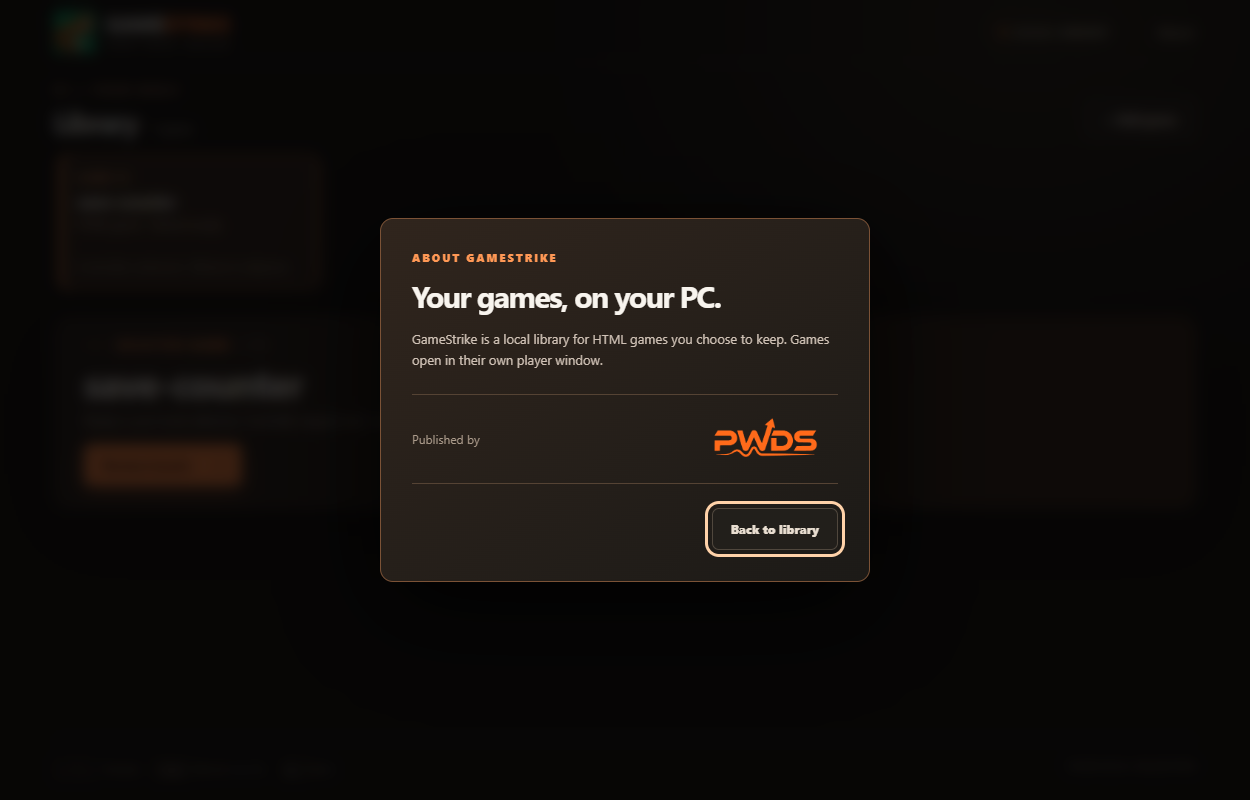
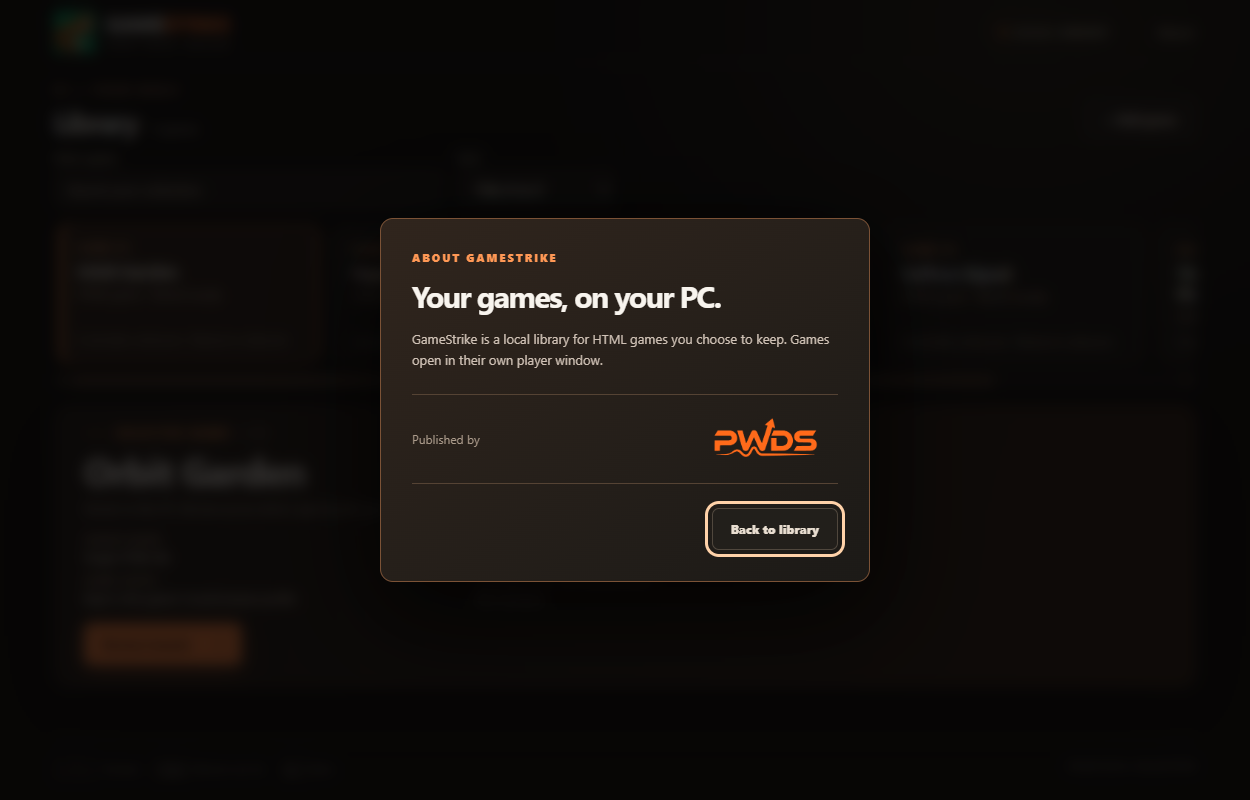
Publish inspected current launcher captures and runtime evidence

Changed region(s): [[0.0624, 0.75, 0.2184, 0.8438], [0.0624, 0.5312, 0.2184, 0.625]]

diff --git a/docs/PLAYER_SECURITY.md b/docs/PLAYER_SECURITY.md
@@ -4,11 +4,11 @@
 
 The library and console-style launcher are trusted local UI. Imported HTML runs only in the separate Wry/WebView2 player process. The player has no Tauri command surface, IPC handler, host objects added by GameStrike, or generic bridge from game JavaScript to launcher actions. Its local asset handler accepts only the selected game's exact origin and canonical files inside that game's content directory. A distinct UUID-derived origin and WebView data directory are used per game. The included first-party save fixture verified `localStorage` persistence and separation across two game IDs under the guarded player build on this Windows PC.
 
-Wry denies top-level navigation away from the selected origin, new windows, downloads, and permission requests in the player source. Direct WebView2 event handlers now also deny cross-origin frame navigation and cancel registered external URI launches. They are registered before loading game HTML, and launch fails if the required external-URI interface is absent. This addition passed a Rust source check and unit tests but **has not been run in a freshly built player**. Browser accelerator keys and default context menus are disabled. A drag/drop handler is installed; Wry's Windows documentation says its return value is ignored and the handler replaces WebView2 drag/drop handling, so this behavior needs a controlled check and may affect games that use HTML drag/drop. These callbacks alone have not been verified against every subframe, external protocol, worker, or WebView2 version path. A separate process is not a Windows sandbox. The player queries its Windows process token before WebView creation, accepts only medium integrity RID `0x2000`, and refuses failed, unknown, low, high, system, or protected results. It only reads the token; it never changes it. An elevated launcher must start a standard-integrity child or report the refusal. The player also calls WebView2 settings to disable host objects, web messages, and default script dialogs before navigating to game content. The earlier first-party fixture loaded after these calls, but a controlled JavaScript probe of each setting is still needed. [Microsoft's WebView2 security guidance](https://learn.microsoft.com/en-us/microsoft-edge/webview2/concepts/security) recommends standard integrity and explicit restrictions.
+Wry denies top-level navigation away from the selected origin, new windows, downloads, and permission requests in the player source. Direct WebView2 event handlers also deny cross-origin frame navigation and cancel registered external URI launches. They are registered before loading game HTML, and launch fails if the required external-URI interface is absent. The CI-built player ran the exact bundled boundary fixture at standard integrity: native logs denied a popup, cross-origin frame, and data-URI download, while the page reported `popup=null`, `file-fetch=rejected`, and `location=denied`. This controlled run does not verify every subframe, external protocol, worker, or WebView2 version path. Browser accelerator keys and default context menus are disabled. A drag/drop handler is installed; Wry's Windows documentation says its return value is ignored and the handler replaces WebView2 drag/drop handling, so this behavior needs a controlled check and may affect games that use HTML drag/drop. A separate process is not a Windows sandbox. The player queries its Windows process token before WebView creation, accepts only medium integrity RID `0x2000`, and refuses failed, unknown, low, high, system, or protected results. It only reads the token; it never changes it. An elevated launcher must start a standard-integrity child or report the refusal. The player also calls WebView2 settings to disable host objects, web messages, and default script dialogs before navigating to game content. A controlled JavaScript probe of each setting is still needed. [Microsoft's WebView2 security guidance](https://learn.microsoft.com/en-us/microsoft-edge/webview2/concepts/security) recommends standard integrity and explicit restrictions.
 
 ## Network policy
 
-Wry's top-level navigation callback is not a complete network filter. Strict offline mode is **unavailable** in this checkpoint. The player requires `--allow-network` for normal launch, and `--smoke` accepts only the exact bundled first-party save fixture. This is an explicit consent gate, not an offline mode or a claim that arbitrary downloaded games are safe. Imported games stay labeled `network: unknown`; users cannot infer offline compatibility from a successful import.
+Wry's top-level navigation callback is not a complete network filter. Strict offline mode is **unavailable** in this checkpoint. The player requires `--allow-network` for normal launch; `--smoke` and `--boundary-smoke` accept only their exact bundled first-party fixtures. This is an explicit consent gate, not an offline mode or a claim that arbitrary downloaded games are safe. Imported games stay labeled `network: unknown`; users cannot infer offline compatibility from a successful import.
 
 Microsoft's [`ICoreWebView2_22` documentation](https://learn.microsoft.com/en-us/microsoft-edge/webview2/reference/win32/icorewebview2_22) provides a request filter with source kinds for frames, shared workers and service workers; it must be installed before main-page navigation. Cached Wry 0.57 uses that newer filter when available for its **game-origin custom protocol**, with a legacy fallback. It does not register a catch-all filter for remote URLs. A [tracked WebView2 issue](https://github.com/MicrosoftEdge/WebView2Feedback/issues/4303) reports that `WebResourceRequested` does not fire for WebSocket connections; therefore, even a catch-all `WebResourceRequested` handler by itself is insufficient evidence of strict offline play. This remains a source/documentation finding, not a runtime network test on this PC.
 
@@ -16,19 +16,17 @@ Before offering offline play, implement and verify a policy that covers main fra
 
 ## Trusted launcher path
 
-The launcher source uses bundled assets in its own Wry view with a fixed origin and a narrow IPC command set. The file picker supplies import paths; the UI only supplies a validated game UUID and explicit network choice to launch the separate player. Game HTML must never be put in the launcher view or given its IPC access. Launch controls display unknown controller and network requirements and provide visible keyboard and gamepad focus states. Launcher gamepad navigation does not imply a game's controls support gamepads. Windows CI built both binaries and passed the launcher origin test; a local runtime check is still required.
+The launcher source uses bundled assets in its own Wry view with a fixed origin and a narrow IPC command set. The file picker supplies import paths; the UI only supplies a validated game UUID and explicit network choice to launch the separate player. Game HTML must never be put in the launcher view or given its IPC access. Launch controls display unknown controller and network requirements and provide visible keyboard and gamepad focus states. Launcher gamepad navigation does not imply a game's controls support gamepads. Windows CI built both binaries and passed the launcher origin test; the launcher rendered the reviewed local [screenshots](screenshots/README.md). Picker, physical-controller, and launcher-to-player interactions remain unverified.
 
 ## Remaining controlled checks
 
 - Verify refusal under a controlled actual elevated-token process; current pure decision tests reject high/system RIDs, and the native test queried only a medium token. Do not alter a user's token or security settings for this test.
 - Verify that normal player launch without `--allow-network` fails before WebView creation. The smoke-fixture unit test already rejects changed or extra files.
-- Repeat save persistence after future browser policy changes; the guarded player already reopened the first fixture profile at launch 4 and the second at launch 2.
-- Run the exact first-party `boundary-smoke.html` in the newly built player using `--boundary-smoke` and two game IDs. It probes a nonexistent local file, popup, permission, data-URI download, cross-origin frame, and storage count. Interpret page results alongside native callback logs; a rejected `fetch` alone does not prove every browser request path was blocked. No registered external protocol is invoked by the fixture.
+- Repeat save persistence after future browser policy changes; the guarded player already reopened the first fixture profile at launch 5 and the second at launch 2.
+- Repeat the exact first-party `boundary-smoke.html` under a second game ID to check profile separation. The first ID completed at `launch=3` after prior probe runs. Interpret page results alongside native callback logs; a rejected `fetch` alone does not prove every browser request path was blocked. No registered external protocol is invoked by the fixture.
 - Probe host-object, web-message, dialog, download, permission, and frame/external-protocol behavior with controlled HTML. A successful fixture load confirms setter success, not every browser behavior.
 - Check frame navigation, protocol handling, browser permissions, and local network access at runtime before expanding arbitrary-game support.
 
-## Current build constraint
+## Latest verified build
 
-The exact commands were `cargo check --offline --features player-windows --bin gamestrike-player -j2`, followed by `cargo fmt --all; cargo test --offline --features player-windows --bin gamestrike-player -j2`. The check and five focused tests passed. After the check, Cargo's test profile compiled the cached dependency graph again; the pre-command `target` measurement was 724,754,649 bytes and the post-test measurement was 1,555,877,756 bytes, a measured increase of 831,123,107 bytes (about 792.6 MiB). The intermediate post-check size was not recorded, so the exact split between check and test growth is unknown. This exceeded the delegated 512 MiB incremental-growth cap. All compilation, runtime tests, downloads, and material disk growth are stopped; no files or artifacts were removed. The latest C: reading was 21,772,718,080 free bytes, about 20.28 GiB, above the 20 GiB floor but with little margin.
-
-Existing `target/debug/gamestrike.exe` (1,155,584 bytes, timestamp 2026-10-13 05:32) supports the earlier CLI import/list path. Existing `target/debug/gamestrike-player.exe` (2,386,944 bytes, timestamp 2026-10-13 06:00) is the earlier guarded runtime that successfully ran only the exact benign save fixture with `--smoke`; it predates the new frame/external handlers and `--boundary-smoke` mode. The new source compiled in the check/test profiles but **was not rebuilt as that runnable player executable**. Neither existing executable should be treated as verification of the new boundary or general safety for arbitrary downloaded games. The project remains open, with the new handlers, controlled browser outcomes, strict offline policy, and console launcher UI unverified or unimplemented.
+[Windows source checks run 38665296183](https://github.com/Gerbzz/GameStrike/actions/runs/38665296183) built the launcher and player from commit `175016d86c62460e17f1342af687958b772c96c0` and passed Rust and JavaScript tests. The extracted player was run at standard Windows integrity against the exact first-party save fixture, which advanced to launch 5 using its existing profile. The corrected boundary probe completed and reported `launch=3;popup=null;file-fetch=rejected;location=denied`; native callbacks denied the popup, cross-origin frame, and download. A prior sandboxed run correctly refused low integrity. These are controlled outcomes, not a general safety certification or proof of strict offline operation. No local Cargo build was run for this checkpoint; the verified CI binaries were downloaded into ignored staging. Native file-picker and physical-controller checks remain blocked by the Windows computer-use helper initialization error (`HRESULT 0x80070003`).

diff --git a/README.md b/README.md
@@ -17,7 +17,7 @@
 
 ## Actual Windows captures
 
-These are PNGs captured from the rendered WebView2 window of the [CI-built Windows launcher](https://github.com/Gerbzz/GameStrike/actions/runs/38651373781) on the Office PC. The populated library contains five tiny synthetic local HTML fixtures, including a long title, imported into an isolated test library. The images have not been composited or retouched.
+These are PNGs captured from the rendered WebView2 window of the [CI-built Windows launcher](https://github.com/Gerbzz/GameStrike/actions/runs/38665296183) on the Office PC. The populated library contains five tiny synthetic local HTML fixtures, including a long title, imported into an isolated test library. The images have not been composited or retouched.
 
 **Your empty library, 1250 × 800**
 
@@ -83,7 +83,7 @@ gamestrike-player --library LIBRARY --id GAME_UUID --allow-network
 
 ## Current status
 
-The launcher provides an empty shelf, real title-led game cards, importing and rejected-import states, network consent, keyboard/controller navigation, and player start/exit feedback. [Windows source checks](https://github.com/Gerbzz/GameStrike/actions/runs/38651373781) built both binaries and passed 8 importer tests, 1 launcher origin test, 5 player tests, 5 input regressions, formatting, and JavaScript syntax. The actual empty, multi-game, long-title, launch-dialog, and About surfaces were captured and inspected; the player ran the controlled save fixture at standard Windows integrity (`GameStrike fixture launch 1`, exit 0). The native file picker, physical controller, and player round trip through the launcher still need hands-on checks. Controlled browser-boundary tests remain before general-game safety claims.
+The launcher provides an empty shelf, searchable and sortable title cards, selected-game details, import and duplicate feedback, network consent, keyboard/controller navigation, and player start/exit messages. [Windows source checks](https://github.com/Gerbzz/GameStrike/actions/runs/38665296183) built both binaries and passed Rust and JavaScript tests. The actual empty, five-game, 880 × 620, long-title, launch-dialog, and About surfaces were captured and inspected. The matching player reopened the controlled save fixture through launch 5 and completed the bundled boundary probe at standard Windows integrity. These fixture results do not establish strict offline play or safety for arbitrary downloaded games. The native file picker, physical controller, and player round trip through the launcher still need hands-on checks; the Windows computer-use helper failed to initialize on this host during this pass.
 
 The separate Wry/system-WebView player is designed to have no Tauri commands, launcher credentials, game-to-host message bridge, or unrestricted file access. It limits local assets to the selected game's content root and registers navigation, download, window, and permission restrictions. Those checks still need controlled runtime validation across frames, protocols, workers, and network paths. Read [PLAYER_SECURITY.md](docs/PLAYER_SECURITY.md) before widening use; [LAUNCHER_UI.md](docs/LAUNCHER_UI.md) records the launcher implementation.
 

diff --git a/docs/screenshots/README.md b/docs/screenshots/README.md
@@ -2,14 +2,16 @@
 
 These PNGs are captures of the running Windows `gamestrike-launcher.exe` WebView2 surface, produced with its explicit `--capture-preview` option. They are not HTML mockups, browser recreations, composited images, or retouched renders.
 
-- Source: commit `5cf79aef85c633533bfaf318599f6cbd0a25b50d`
[1 lines of base64/hex data omitted]
-- Host and date: Office PC, 2026-10-14 UTC
+- Source: commit `175016d86c62460e17f1342af687958b772c96c0`
+- Build: [Windows source checks run 38665296183](https://github.com/Gerbzz/GameStrike/actions/runs/38665296183), artifact `gamestrike-windows-debug` (`11940304204`)
[2 lines of base64/hex data omitted]
+- Host and date: Office PC, 2026-10-15 UTC
 - `empty-library.png`: a newly created, empty isolated library at 1250 × 800
 - `local-library.png`: five benign synthetic HTML files imported into an isolated test library at 1250 × 800
 - `local-library-minimum.png`: the same test library at the 880 × 620 minimum window size
-- `long-title.png`: the fifth synthetic title selected and scrolled into view; it is visible in the shelf and selected-game panel
-- `launch-warning.png`: the launch dialog for the bundled benign `fixtures/save-counter.html`, before consenting or launching a game
+- `long-title.png`: the fifth synthetic title selected and scrolled into view; its full title and the footer remain visible
+- `launch-warning.png`: the launch dialog for synthetic local game Orbit Garden, before consenting or launching a game
 - `about-publisher.png`: the About dialog with the unchanged official PWDS display logo
 
-The files were imported through the existing GameStrike CLI before capture. The synthetic HTML contains no scripts or remote assets. The explicit `--capture-view` option opened the bundled launch and About dialogs before WebView2 captured them; it did not approve network access or execute a game. The native launcher's file picker, import flow, physical controller focus, and player return still require interaction testing. No third-party games or user files appear in these screenshots.
+The five files were imported through the existing GameStrike CLI before capture. Their synthetic HTML contains no scripts or remote assets. The explicit `--capture-view` option opened the bundled launch and About dialogs before WebView2 captured them; it did not approve network access or execute a game. The native launcher's file picker, import flow, physical controller focus, and player return still require interaction testing. The supported Windows computer-use helper could not initialize on this host (`HRESULT 0x80070003`), so these captures must not be taken as proof of those interactions. No third-party games or user files appear in these screenshots.

diff --git a/docs/LAUNCHER_UI.md b/docs/LAUNCHER_UI.md
@@ -14,4 +14,4 @@ Controller support and network requirement are shown as unknown for every import
 
 ## Verification still needed
 
-The launcher passed formatting and JavaScript syntax checks, 8 importer tests, 1 launcher origin test, 5 player tests, and 5 controller input regressions in [Windows CI](https://github.com/Gerbzz/GameStrike/actions/runs/38651373781). The CI-built launcher rendered and captured the actual empty, five-game, long-title, launch-dialog, and About surfaces on the Office PC. The five-game shelf also fits at the 880 × 620 minimum size. Its matching player launched the bundled save fixture at standard Windows integrity. The image files and source provenance are in [screenshots](screenshots/README.md). The native file picker, successful and rejected imports through the launcher, dialog focus with a physical controller, and player return still need interactive checks. Repeat the player browser-boundary fixture checks before expanding beyond controlled games.
+The launcher passed formatting, JavaScript syntax, Rust source tests, and eight input regressions in [Windows CI](https://github.com/Gerbzz/GameStrike/actions/runs/38665296183). The CI-built launcher rendered and captured the actual empty, five-game, long-title, launch-dialog, and About surfaces on the Office PC. The five-game shelf, selected details, launch action, and footer fit at the 880 × 620 minimum size. Its matching player reopened the bundled save fixture through launch 5 and completed the controlled browser-boundary fixture at standard Windows integrity. The image files and source provenance are in [screenshots](screenshots/README.md). The native file picker, successful and rejected imports through the launcher, dialog focus with a physical controller, and player return still need interactive checks. The supported Windows computer-use helper failed to initialize on this host (`HRESULT 0x80070003`); no alternative desktop input path was used. Keep strict offline play unavailable while the broader browser network policy remains unverified.
